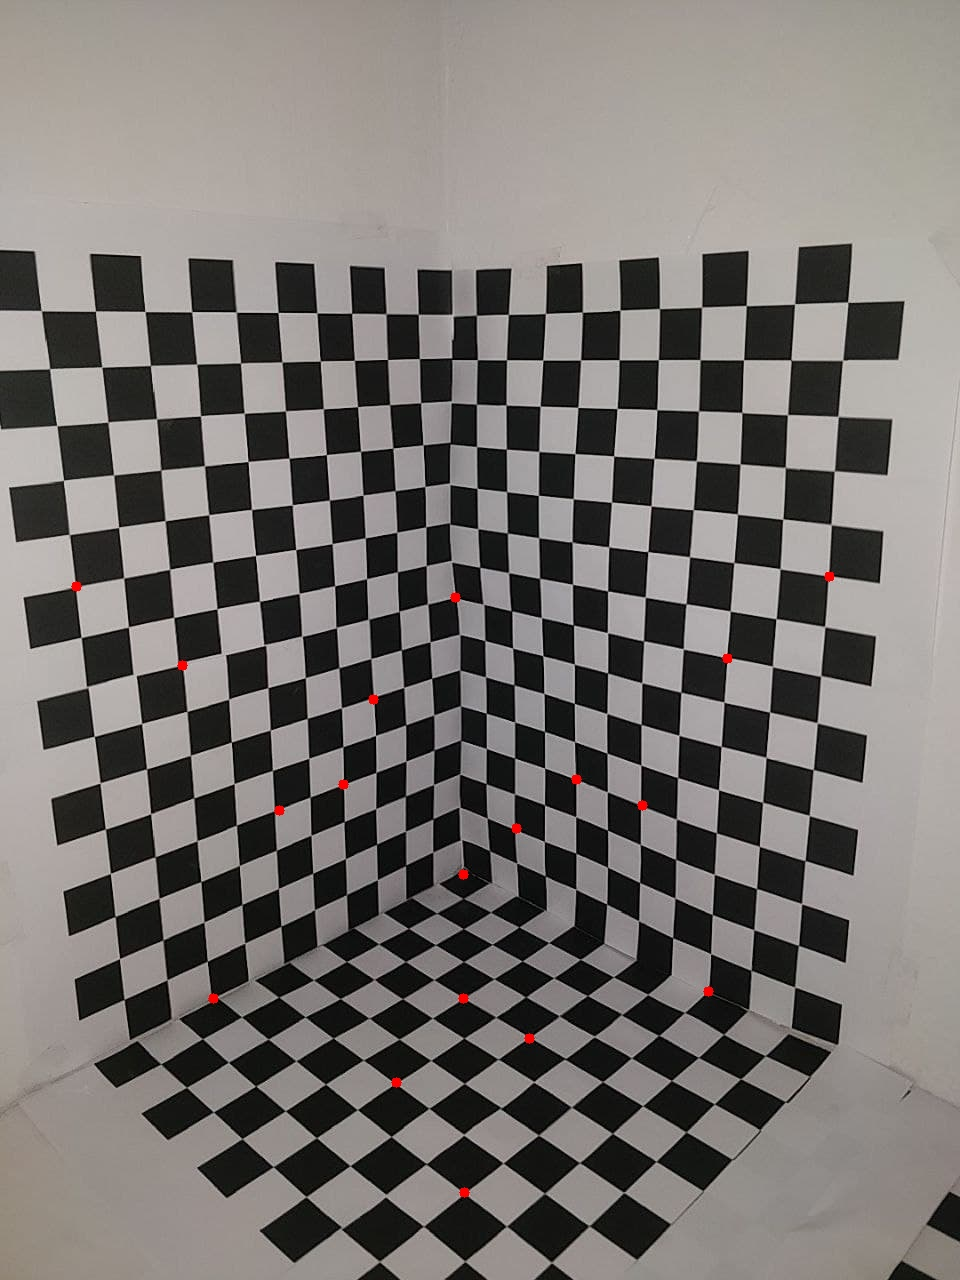
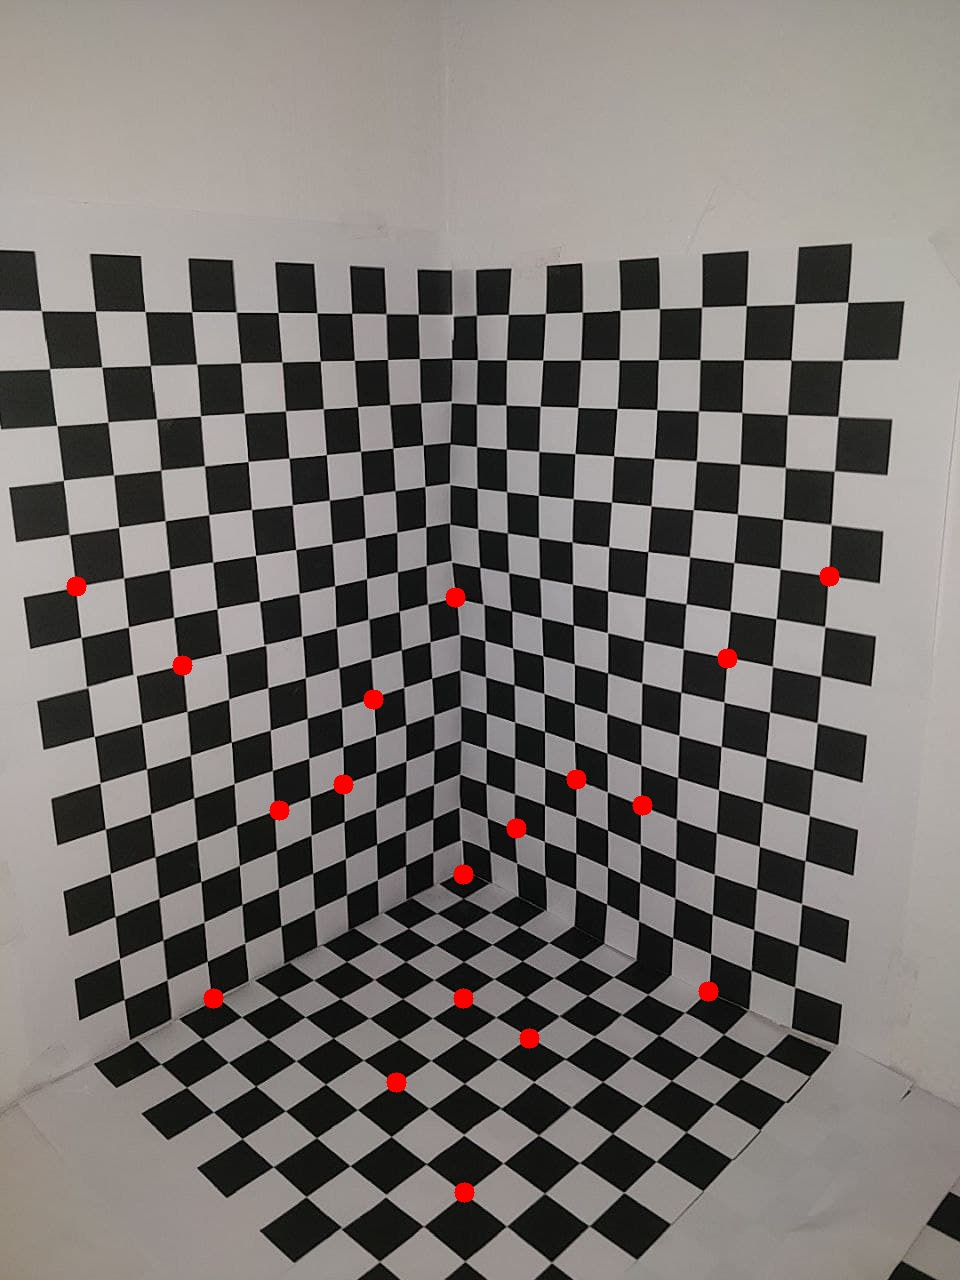
Final Complete

diff --git a/CAM_CALIB_PY.py b/CAM_CALIB_PY.py
@@ -4,6 +4,8 @@ from scipy import linalg
 from sklearn.utils import shuffle
 import cv2 as cv
 
+np.set_printoptions(formatter={'float': lambda x: "{0:0.3f}".format(x)})
+
 def get_intrest_points():
     # WORLD CO-ORDINATES
     data = pd.read_excel("E:/GitHub/CV_Assignment_1/dataset.xlsx")
@@ -66,32 +68,7 @@ def Normalization(nd, x):
     x = x[0:nd, :].T
 
     return Tr, x
-def Normalization(nd, x):
-    # CONVERTING TO NUMPY ARRAY
-    x = np.asarray(x)
-    # print(x)
 
-    # CALCULATING centroid and mean distance from centroid
-    m = np.mean(x, 0)
-    dist = np.mean(np.sqrt(np.sum(np.square(x - m))))
-
-    # NORMALIZATION MATRIX FOR WORLD POINTS(3D) AND IMAGE-PIXEL POINTS(2D)
-    if nd == 2:
-        s2D = np.sqrt(2) / dist
-        Tr = np.diag([s2D, s2D, 1])
-        Tr[0:2, 2] = -m * s2D
-
-    else:
-        s3D = np.sqrt(3) / dist
-        Tr = np.diag([s3D, s3D, s3D, 1])
-        Tr[0:3, 3] = -m * s3D
-
-    x = np.dot(Tr, np.concatenate((x.T, np.ones((1, x.shape[0])))))
-    x = x[0:nd, :].T
-
-    print("MEAN DISTANCE FROM CENTER : {}".format(np.mean(np.sqrt(np.sum(np.square(x))))))
-
-    return Tr, x
 
 def DLTcalib(nd, xyz, img_pt_):
     if (nd != 3):
@@ -186,7 +163,7 @@ def draw_on_image(original_pts, estimated_pts):
 
     for i in original_pts:
         center = (i[0], i[1])
-        radius = 5
+        radius = 10
         color_of_marker = (0,0,255)
         cv.circle(img_org, center, radius,color_of_marker,-1)
     cv.imshow('original image', img_org)
@@ -196,7 +173,7 @@ def draw_on_image(original_pts, estimated_pts):
     for i in estimated_pts:
         center = (int(np.rint(i[0])), int(np.rint(i[1])))
         #print(center)
-        radius = 5
+        radius = 10
         color_of_marker = (0,255,0)
         cv.circle(img_est, center, radius,color_of_marker, -1)
     cv.imshow('original image', img_est)
@@ -228,5 +205,7 @@ if __name__ == "__main__":
 
     print("\n\nCAMERA PARAMETERS: ")
     camera_param(P.reshape(3,4))
+
+    print(P.view())
 
     draw_on_image(img_pt_,estimated_pts)

diff --git a/camera_calib_python.py b/camera_calib_python.py
@@ -2,8 +2,19 @@ import numpy as np
 import cv2 as cv
 import glob
 import pandas as pd
- 
-chessboard_size = (24,17)
+np.set_printoptions(formatter={'float': lambda x: "{0:0.3f}".format(x)})
+
+def pretty_print(x):
+    x_shape = x.shape
+    for i in range(x_shape[0]):
+        for j in range(x_shape[1]):
+            if (j==(x_shape[1]-1)):
+                print("{:.4f}".format(x[i][j]), end = "")
+            else:
+                print("{:.4f} & ".format(x[i][j]), end = "")
+        print('\\\\')
+
+chessboard_size = (16,12)
 frameSize = (1440, 1080)
 
 criteria = (cv.TERM_CRITERIA_EPS + cv.TERM_CRITERIA_EPS, 30, 0.001)
@@ -15,10 +26,8 @@ objp[:,:2] = np.mgrid[0:chessboard_size[0], 0:chessboard_size[1]].T.reshape(-1,2
 objPoints = []
 imgPoints = []
 
-data = pd.read_excel("E:\\GitHub\\CV_Assignment_1\\dataset.xlsx")
-print(data)
 
-images = glob.glob("E:\GitHub\CV_Assignment_1\SAMPLE_IMAGES\*.png")
+images = glob.glob("E:\GitHub\CV_Assignment_1\TEST_DATA\*.jpg")
 for image in images:
     print(image)
     img = cv.imread(image)
@@ -45,7 +54,11 @@ ret, cameraMatrix, dist, rvecs, tvecs = cv.calibrateCamera(objPoints, imgPoints,
 
 print("Camera calibrated: ", ret)
 print("\nCamera Matrix: \n", cameraMatrix)
+pretty_print(cameraMatrix)
+
 print("\nDistortion parameters: \n", dist)
+pretty_print(dist)
+
 print("\nRotation parameters: \n", rvecs)
 print("\nTranslation parameters: \n", tvecs)
 
